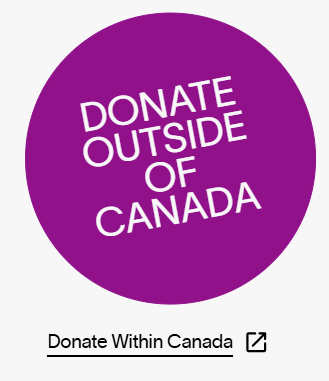
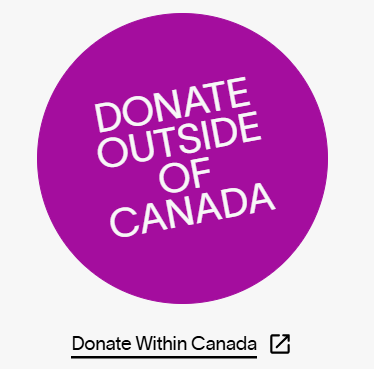
Image Slides and Donate

diff --git a/components/index.html b/components/index.html
@@ -86,7 +86,7 @@
         </div>
         <div class="component__code">
             <div class="button"><a href="#!"><p class="button__link">Learn more</p></a></div>
-            <div class="button button--white"><a href="#!"><p class="button__link button__grid"><span>Become A Partner</span><span><img class="icon" src="../img/arrow.png"></span></p></a></div>
+            <div class="button button--white"><a href="#!"><div class="button__link button__grid"><p>Become A Partner</p><div class="icon-slider"><div class="button__grid"><img src="../img/arrow.png" alt=""><img src="../img/arrow.png" alt=""></div></div></div></a></div>
             <div class="button button--black button--small"><a href="#!"><p class="small__link">Become A Brand Partner</p></a></div>
             <div class="cookie__options">
                 <div class="button button--cookie"><a href="#!"><p class="cookie__link">Reject All</p></a></div>
@@ -159,9 +159,9 @@
         <div class="component__code">
             <div class="toolbar">
                 <a href="#!" class="link">Tools and resources</a>
-                <button class="button button--white"><p class="button__link"><img src="../img/search.png" srcset="../img/search.png 1.25x" alt="search icon"></p></button>
+                <div class="button button--white"><a href="#!" class="search center"><div class="icon-slider"><div class="button__grid"><img src="../img/search.png" alt=""><img src="../img/search.png" alt=""></div></div></a></div>
                 <div class="button"><a href="#!"><p class="button__link">Get involved</p></a></div>
-                <button class="button button--black"><p class="button__link button__grid"><span>Menu</span><span><img src="../img/menu.png" srcset="../img/menu.png 1.25x" alt="menu icon"></span></p></button>
+                <div class="button button--black"><a href="#!"><div class="button__link button__grid"><p>Menu</p><div class="icon-slider"><div class="button__grid"><img src="../img/menu.png" alt=""><img src="../img/menu.png" alt=""></div></div></div></a></div>
             </div>
         </div>
     </article>
@@ -392,6 +392,19 @@
         </div>
     </article>
 
+    <article class="component">
+        <h3 class="component__name">Donate Button</h3>
+        <div class="component__img">
+            <img src="img/sock-donate.png" srcset="img/sock-donate.png 1.4x" alt="Outside of Canada Donation button">
+        </div>
+        <div class="component__code">
+            <section class="donate column-flex center">
+                <div class="donate__bubble button__grid center"><h3 class="donate__heading heading--white heading--upper">Donate outside of canada</h3></div>
+                <a class="button__grid center donate__link"><p class="copy--smaller heading--bold">Donate Within Canada</p><div class="icon-slider"><div class="button__grid"><img src="../img/link.png" alt=""><img src="../img/link.png" alt=""></div></div></a>
+            </section>
+        </div>
+    </article>
+
     <h2>organisms</h2>
 
     <article class="component">
@@ -406,10 +419,9 @@
                 </div>
                 <div class="toolbar">
                     <a href="#!" class="link">Tools and resources</a>
-                    <button class="button button--white"><p class="search"><img src="../img/search.png" srcset="../img/search.png 1.25x" alt="search icon"></p></button>
+                    <div class="button button--white"><a href="#!" class="search center"><div class="icon-slider"><div class="button__grid"><img src="../img/search.png" alt=""><img src="../img/search.png" alt=""></div></div></a></div>
                     <div class="button"><a href="#!"><p class="button__link">Get involved</p></a></div>
-                    <button class="button button--black"><p class="button__link button__grid"><span>Menu</span><span><img src="../img/menu.png" srcset="../img/menu.png 1.25x" alt="menu icon"></span></p></button>
-    
+                    <div class="button button--black"><a href="#!"><div class="button__link button__grid"><p>Menu</p><div class="icon-slider"><div class="button__grid"><img src="../img/menu.png" alt=""><img src="../img/menu.png" alt=""></div></div></div></a></div>
                 </div>
             </header>
         </div>

diff --git a/components/test.html b/components/test.html
@@ -10,18 +10,14 @@
 </head>
 <body>
     <article class="component">
-        <h3 class="component__name">CTA LINKS</h3>
+        <h3 class="component__name">Donate Button</h3>
         <div class="component__img">
-            <img src="img/more-nav.png" srcset="img/more-nav.png 1.4x" alt="cookie accordion closed">
+            <img src="img/sock-donate.png" srcset="img/sock-donate.png 1.4x" alt="Outside of Canada Donation button">
         </div>
         <div class="component__code">
-            <section class="cta column-flex">
-                <h3>Get involved</h3>
-                <div class="cta__link-box"><a href="#!" class="cta__link heading--upper heading--big">donate</a><div class="behind-box"><img class="behind" src="../img/behind1.svg" alt=""></div></div>
-                <div class="cta__link-box"><a href="#!" class="cta__link heading--upper heading--big">become a partner</a><div class="behind-box"><img class="behind" src="../img/behind2.svg" alt=""></div></div>
-                <div class="cta__link-box"><a href="#!" class="cta__link heading--upper heading--big">contact us</a><div class="behind-box"><img class="behind" src="../img/behind3.svg" alt=""></div></div>
-                <div class="cta__link-box"><a href="#!" class="cta__link heading--upper heading--big">join the team</a><div class="behind-box"><img class="behind" src="../img/behind4.svg" alt=""></div></div>
-                <div class="behind-box"><img class="behind" src="../img/behind.svg" alt=""></div>
+            <section class="donate column-flex center">
+                <div class="donate__bubble button__grid center"><h3 class="donate__heading heading--white heading--upper">Donate outside of canada</h3></div>
+                <a class="button__grid center donate__link"><p class="copy--smaller heading--bold">Donate Within Canada</p><div class="icon-slider"><div class="button__grid"><img src="../img/link.png" alt=""><img src="../img/link.png" alt=""></div></div></a>
             </section>
         </div>
     </article>

diff --git a/css/main.css b/css/main.css
@@ -166,6 +166,9 @@ h1,h2,h3,h4,h5,h6 {
   border: 1px solid transparent;
   transition: background-color ease-in-out .4s, color ease-in-out .4s;
 }
+.button .icon-slider {
+  width: 17.25px;
+}
 .button__link {
   padding: 21px;
   margin: 0;
@@ -185,7 +188,7 @@ h1,h2,h3,h4,h5,h6 {
   color: var(--white);
   border: 1px solid transparent;
 }
-.button:hover img {
+.button--white:hover img {
   filter: invert(1);
 }
 .button img {
@@ -236,7 +239,7 @@ h1,h2,h3,h4,h5,h6 {
   border: 1px solid var(--near-black);
   color: var(--near-black);
 }
-.button--black a:has(img) {
+.button--black:hover img {
   filter: invert(1);
 }
 .small__link {
@@ -297,6 +300,7 @@ button {
   padding: 0;
 }
 .search {
+  display: grid;
   padding: 20px;
   margin: 0;
 }
@@ -327,6 +331,7 @@ header {
 }
 .center {
   text-align: center;
+  align-self: center;
 }
 .hero__heading {
   padding: 40vh 0 10vh 0;
@@ -1001,4 +1006,62 @@ a:hover + .behind-box {
 }
 .cta:has(a:hover) > .behind-box {
   opacity: 0;
+}
+/*DONATE IN CANADA*/
+.icon-slider {
+  aspect-ratio: 1/1;
+  width: 1rem;
+  clip-path: fill-box;
+  display: grid;
+  align-items: center;
+}
+.icon-slider div {
+  gap: 50%;
+  position: relative;
+  left: -150%;
+  transition: all ease-in-out .3s;
+}
+.icon-slider div img {
+  max-width: 100%;
+}
+a:hover .icon-slider div {
+  left: 0;
+}
+.donate__bubble {
+  border-radius: 50%;
+  background-color: var(--purple);
+  max-width: 14rem;
+  aspect-ratio: 1/1;
+  transition: all ease-in-out .4s;
+}
+.donate__bubble:hover {
+  background-color: var(--black);
+}
+.donate__heading {
+  padding: 2rem;
+  font-size: 2rem;
+  line-height: .9em;
+  transform: rotate(-10deg);
+}
+.donate {
+  gap: 1.5rem;
+}
+.donate__link {
+  gap: .5rem;
+}
+.donate__link p {
+  position: relative;
+  top: -1px;
+}
+.donate__link p:after {
+  display: block;
+  content: "";
+  height: 2px;
+  width: 100%;
+  background-color: var(--black);
+  position: absolute;
+  transition: all ease-in-out .4s;
+}
+.donate__link:hover p:after {
+  width: 0;
 }
